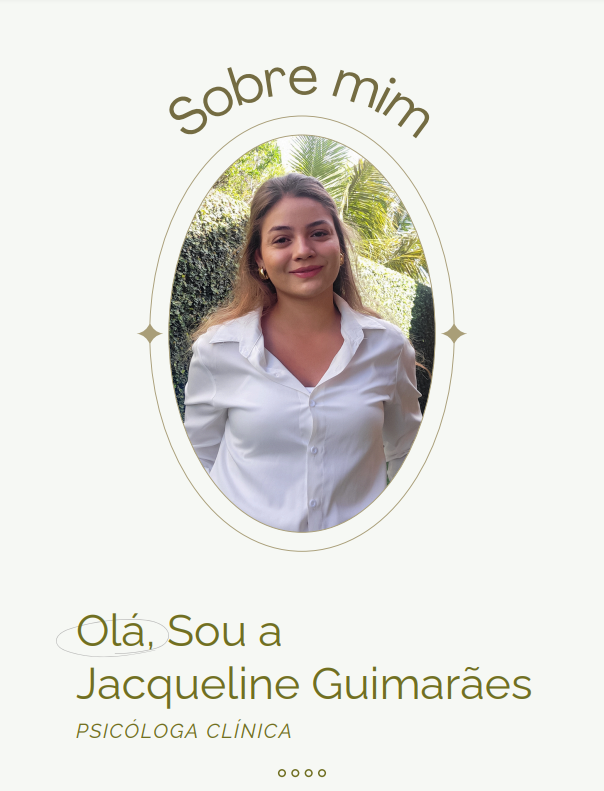
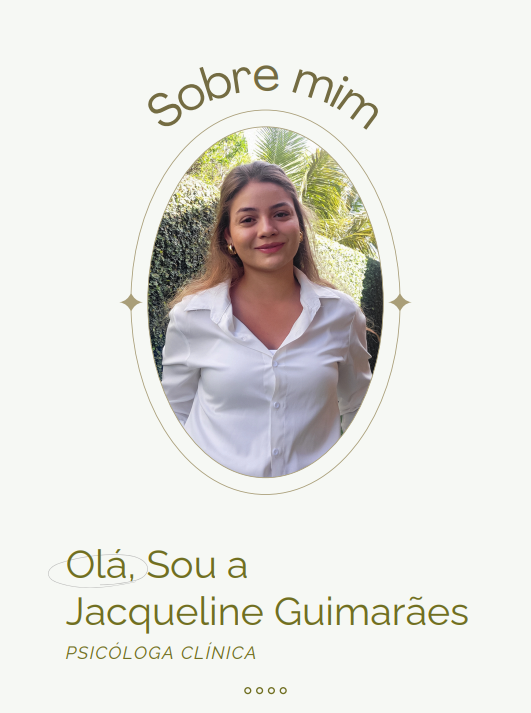
Alterações responsividade

Changed region(s): [[0.2411, 0.0617, 0.7834, 0.5554], [0.1205, 0.7714, 0.904, 0.9874], [0.3315, 0.5863, 0.6629, 0.7097]]

diff --git a/src/componentes/Espaco/Espaco.css b/src/componentes/Espaco/Espaco.css
@@ -381,81 +381,9 @@
         height: 200px;
     }
 }
-@media screen and (max-width: 450px) {
-    .presencial{
-        flex-direction: column-reverse;
-    }
 
-    .divisor-presencial{
-        width: 95%;
-        margin: 10px;
-    }
-
-    .topo-presencial{
-        margin-bottom: 20px;
-        display: flex;
-        align-items: flex-start;
-        justify-content: center;
-    }
-
-    .asa-sul{
-        border-radius: 10px;
-    }
-    .asa-norte{
-        border-radius: 10px;
-    }
-
-    h1{
-        font-size: 22px;
-        margin-bottom: 15px;
-    }
-
-    .loc{
-        justify-content: space-evenly;
-    }
-
-    .loc p{
-        font-size: 0.5rem;
-    }
-    .loc svg{
-        width: 20px;
-    }
-
-    .loc a{
-        font-size: 0.5rem;
-    }
-
-    .loc-norte{
-        font-size: 18px;
-    }
-
-    .online{
-        flex-direction: column;
-    }
-
-    .divisor-online-text{
-        width: 100%;
-        height: 50%;
-        justify-content: center;
-    }
-
-    .topicos-online{
-        width: 80%;
-    }
-
-    .divisor-online-cel{
-        width: 100%;
-        height: 50%;
-
-    }
-
-    .celular{
-        justify-content: center;
-        
-    }
-
-    .img-cel{
-        width: 300px;
-        height: 200px;
+@media screen and (max-width: 900px) {
+    .espaco-principal{
+        display: none;
     }
 }

diff --git a/src/componentes/BlogMob/BlogMob.css b/src/componentes/BlogMob/BlogMob.css
@@ -1,0 +1,64 @@
+.blog-mob-principal{
+    width: 100vw;
+    height: 80vh;
+
+    display: flex;
+    flex-direction: column;
+    justify-content: center;
+    align-items: center;
+    background-color: bisque;
+}
+
+.blog-mob{
+    width: 100%;
+    height: 60%;
+    background-color: cadetblue;
+
+    display: flex;
+    justify-content: center;
+    align-items: center;
+}
+
+.divisor-blog-mob{
+    width: 50%;
+    height: 100%;
+    display: flex;
+    flex-direction: column;
+    justify-content: center;
+    align-items: center;
+    gap: 10px;
+}
+
+.ebook-mob{
+    width: 100%;
+    height: 40%;
+    background-color: blueviolet;
+}
+
+.card-blog-mob{
+    width: 95%;
+    height: 65px;
+
+    background-color: #F1F0E7;
+}
+
+.card-breve-mob{
+    width: 95%;
+    height: 210px;
+
+    background-color: #D0D8B0;
+}
+
+.card-breve2-mob{
+    width: 95%;
+    height: 75px;
+
+    background-color:#777D5C;
+}
+
+.card-artigo-mob{
+    width: 95%;
+    height: 200px;
+
+    background-image: url('../../assets/images/artigo.png');
+}

diff --git a/src/componentes/BlogMob/index.js b/src/componentes/BlogMob/index.js
@@ -1,0 +1,21 @@
+import "./BlogMob.css";
+
+const BlogMob = () => {
+  return (
+    <div className="blog-mob-principal">
+      <div className="blog-mob">
+        <div className="divisor-blog-mob">
+          <div className="card-blog-mob"></div>
+          <div className="card-breve-mob"></div>
+        </div>
+        <div className="divisor-blog-mob">
+          <div className="card-breve2-mob"></div>
+          <div className="card-artigo-mob"></div>
+        </div>
+      </div>
+      <div className="ebook-mob"></div>
+    </div>
+  );
+};
+
+export default BlogMob;

diff --git a/src/componentes/Blog/Blog.css b/src/componentes/Blog/Blog.css
@@ -224,8 +224,16 @@
     color: black;
 }
 
-@media screen and (max-width: 1534) {
+@media screen and (max-width: 1700px) {
+    .card-luto{
+        background-repeat:space;
+       }
+}
 
+@media screen and (max-width: 1300px) {
+    .principal-blog{
+        display: none;
+    }
 }
 
 @media screen and (max-width: 900px) {
@@ -281,8 +289,5 @@
        .card-entendendo-ciclo, .card-inteligencia-emocional, .card-luto {
         width: 150px;
         height: 25%;
-       }
-       .card-luto{
-        background-repeat: no-repeat;
        }
 }

diff --git a/src/componentes/SobreMim/SobreMim.css b/src/componentes/SobreMim/SobreMim.css
@@ -158,6 +158,7 @@
     .sobre-mim{
         padding: 0;
         height: 135vh;
+        margin-bottom: 10vh;
     }
 
     .sobre-mim-principal{
@@ -191,10 +192,11 @@
     .foto-sobre-mbl{
         display: block;
         width: 100%;
-        height: 60%;
+        height: 70%;
         background-image: url('../../assets/images/bg-sobremim.PNG');
-        background-size: cover;
+        background-size: contain;
         background-position: center;
+        background-repeat: no-repeat;
     }
 
     .sobre-mim-texto p{

diff --git a/src/App.js b/src/App.js
@@ -11,6 +11,7 @@ import Psicoterapia from "./componentes/Psicoterapia";
 import Rodape from "./componentes/Rodape";
 import SobreMim from "./componentes/SobreMim";
 import Wpp from "./componentes/Wpp";
+import BlogMob from "./componentes/BlogMob";
 
 function App() {
 
@@ -66,9 +67,13 @@ function App() {
         <div ref={blogRef}>
           <Blog />
         </div>
+
+        <div>
+          <BlogMob />
+        </div>
+
         <div  ref={contatosRef}>
         <Rodape/>
-
         </div>
         <Wpp />
       </div>

diff --git a/src/componentes/EspacoMobile/EspacoMobile.css b/src/componentes/EspacoMobile/EspacoMobile.css
@@ -1,6 +1,7 @@
 .espaco-mobile{
     width: 100vw;
     height: 320vh;
+    background-color: #F5F7F4;
 }
 
 .espaco-local{
@@ -138,4 +139,10 @@
     font-weight: 100 !important;
     font-size: 20px;
     color: #6F6F20;
+}
+
+@media screen and (min-width: 900px) {
+    .espaco-mobile{
+        display: none;
+    }
 }

diff --git a/src/componentes/AccordionUi/Accordion.css b/src/componentes/AccordionUi/Accordion.css
@@ -60,6 +60,10 @@
 
 }
 @media screen and (max-width: 900px) and (min-width: 450px) {
+    .accordion{
+        width: 450px;
+    }
+
     .titulo-accordion, .texto-accordion{
         font-size: 1rem;
         

diff --git a/src/App.css b/src/App.css
@@ -16,6 +16,8 @@
     flex-direction: column;
 
     position: relative;
+
+    background-color: #F5F7F4;
 }
 
 .container{

diff --git a/src/componentes/Psicoterapia/Psicoterapia.css b/src/componentes/Psicoterapia/Psicoterapia.css
@@ -66,6 +66,7 @@
     width: 100%;
     height: 30%;
     display: flex;
+    justify-content: center;
 }
 
 .passo-psi{
